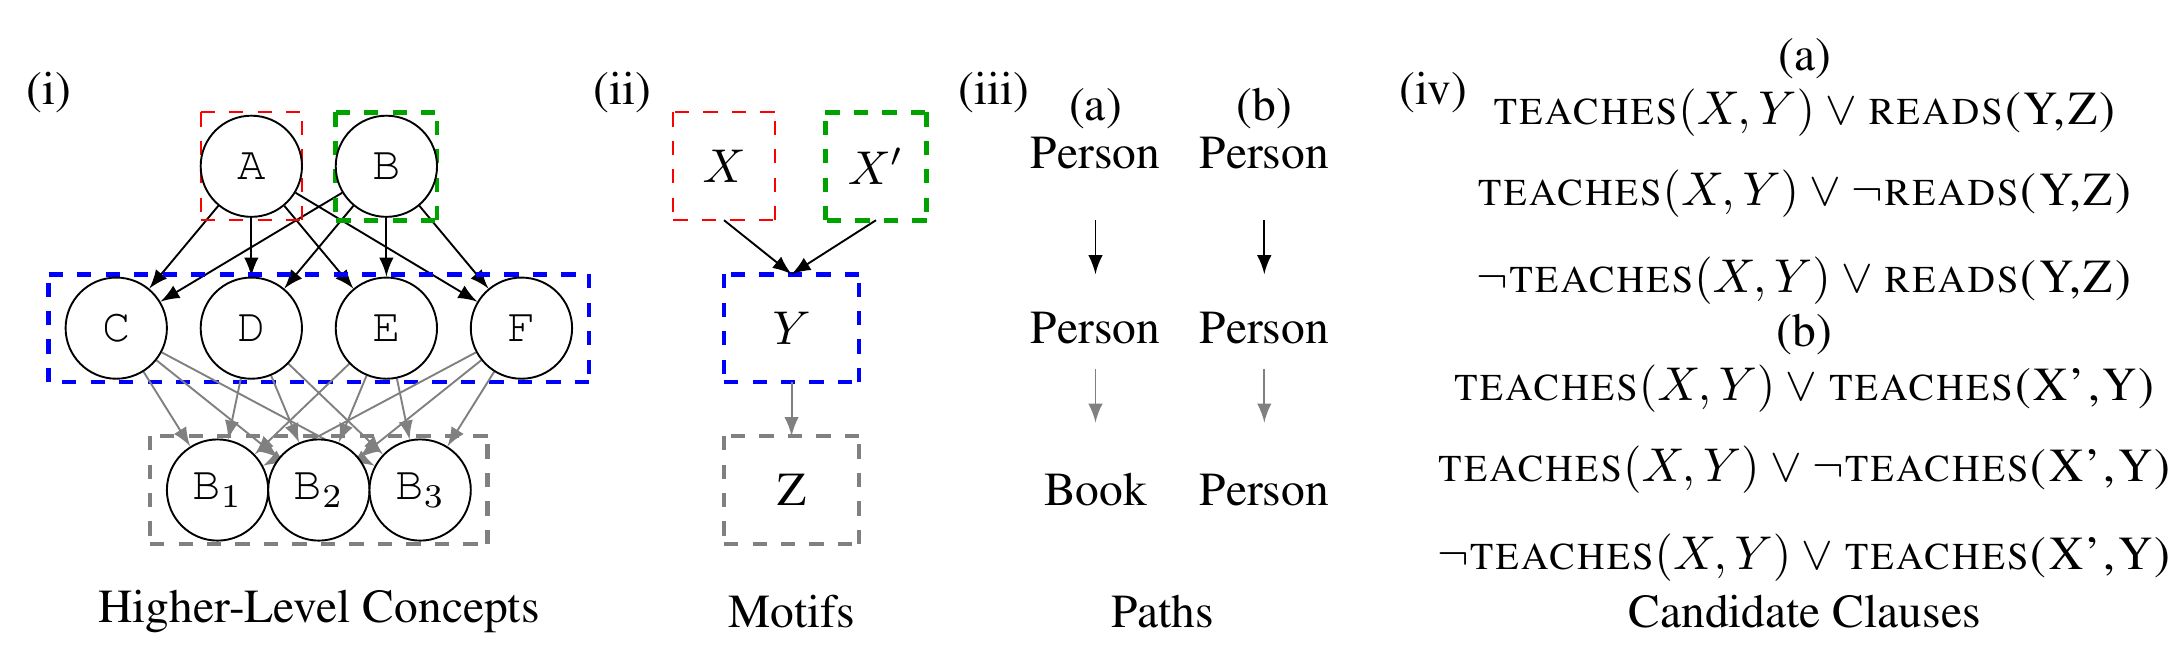
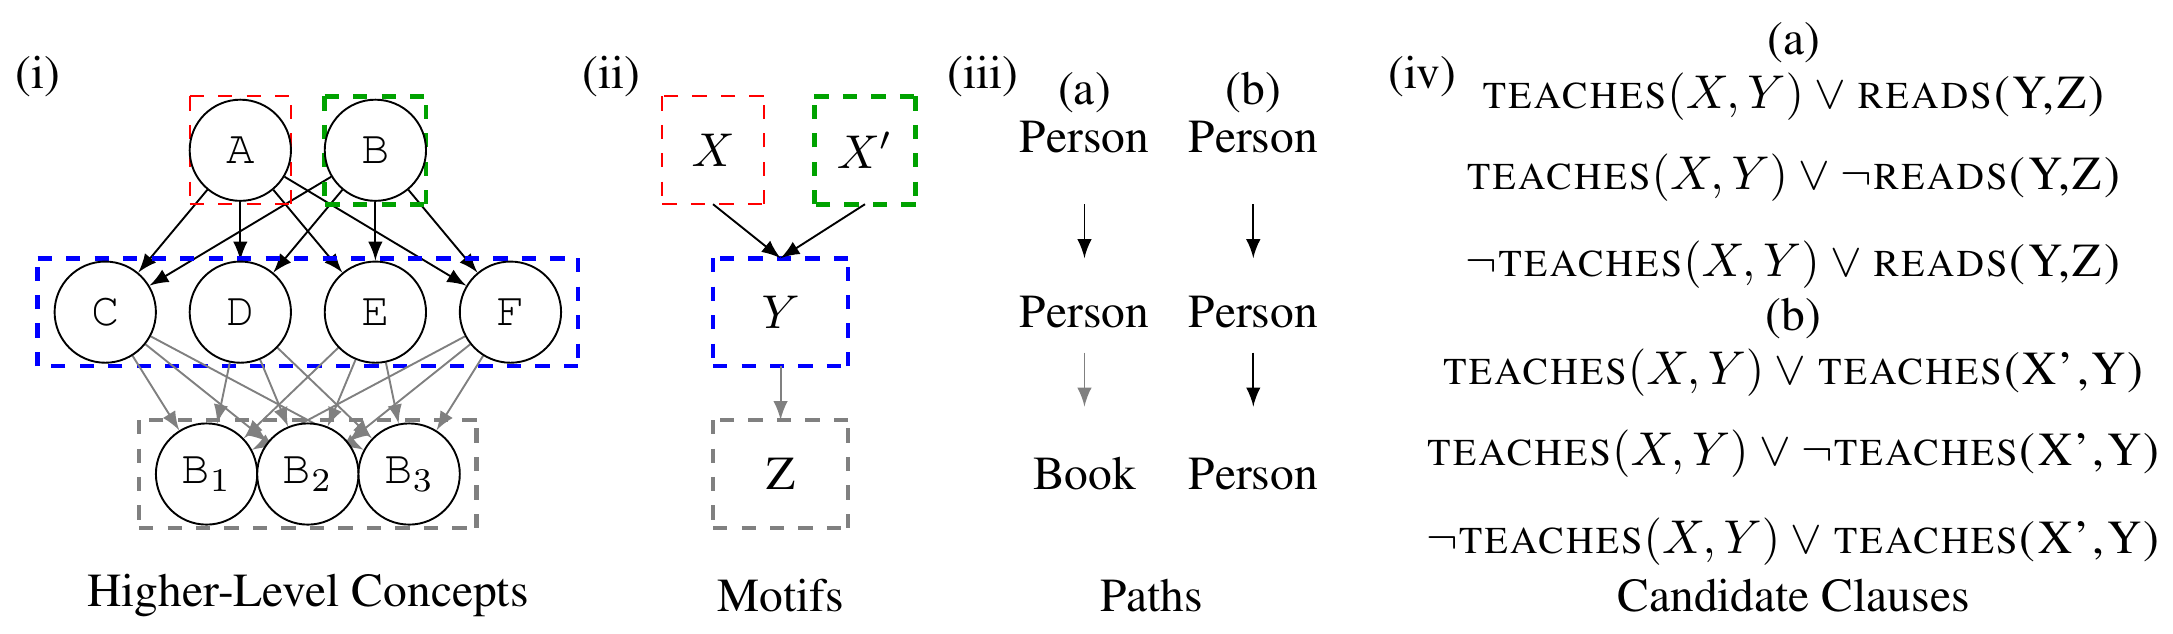
Added a figure for concept finding and updated the structure learning figure

diff --git a/README.md b/README.md
@@ -20,7 +20,9 @@ In this section, we briefly describe what PRISM can be used for and the underlyi
 
 **Structure learning** is a core problem in AI central to the fields of **neuro-symbolic AI** and **statistical relational learning**. It consists in automatically learning a logical theory from data. The basis for structure learning is mining repeating patterns in the data, known as **structural motifs**. Finding these patterns reduces the exponential search space and therefore guides the learning of formulas. Despite the importance of motif learning, it is still not well understood. We present the first principled approach for mining structural motifs in **lifted graphical models**, languages that blend first-order logic with probabilistic models, which uses a stochastic process to measure the similarity of entities in the data.
 
-**PRISM** takes the following steps to find structural motifs:
+**PRISM** takes the following steps, illustrated in the figure below to find structural motifs
+
+![alt text](ConceptFinding.png "Concept Finding Pipeline")
 
 #### 1. Transform data into a hypergraph
 
@@ -28,7 +30,7 @@ The input to PRISM is data in form of a relational database. A **relational data
 
 #### 2. Perform hierarchical clustering of the hypergraph
 
-We then pre-process the data through hierarchical clustering. This identifies groups of densely-connected nodes. The motivation behind considering only densely-connected nodes is that spuriously-connected nodes appear rarely in the path signatures and therefore only add noise to the path signature counts that we use at a later stage for clustering nodes into *abstract concepts*. Furthermore, this pre-processing also leads to a computational saving as we show in our paper.
+We then pre-process the data through hierarchical clustering. Illustrated in the figure above (Step (i)). This identifies groups of densely-connected nodes. The motivation behind considering only densely-connected nodes is that spuriously-connected nodes appear rarely in the path signatures and therefore only add noise to the path signature counts that we use at a later stage for clustering nodes into *abstract concepts*. Furthermore, this pre-processing also leads to a computational saving as we show in our paper.
 
 This hierarchical clustering algorithm is based on spectral clustering. 
 In overview, we begin by converting a hypergraph $\mathcal{H}=(V,E)$ into a weighted graph $\mathcal{G}$ by expanding cliques over each hyperedge. Next, $\mathcal{G}$ is recursively bipartitioned using the sweep set approximation algorithm for the Cheeger-cut *(Chang, Shao, and Zhang 2017)*. The result of the partitioning is a set of subgraphs $G:=$ { $\mathcal{G}_1, \mathcal{G}_2, ..., \mathcal{G}_k$ }. The partitioning terminates whenever either the second-smallest eigenvalue of the symmetric Laplacian matrix $\lambda_2$ exceeds a threshold value $\lambda_2^{max}$.
@@ -48,7 +50,7 @@ where ${P^\* = 1 + {e(e^{L}-1)}/({e-1}) \gg 1}$, $e$ is the number of unique edg
 
 #### 4. Cluster nodes into *abstract concepts*
 
-Finally, we cluster nodes in *abstract concepts*; collections of entities that have similar neighbourhoods in the hypergraph. Nodes are then partitioned into path-symmetric sets based on the similarity of their $L$-path signature counts. Each path-symmetric set then uniquely defines an abstract concept.
+Finally, we cluster nodes in *abstract concepts*; collections of entities that have similar neighbourhoods in the hypergraph. Illustrated in the figure above (Step (ii) and (iii)). Nodes are then partitioned into path-symmetric sets based on the similarity of their $L$-path signature counts. Each path-symmetric set then uniquely defines an abstract concept.
 
 In practice, we separate the path-symmetry clustering into two steps. Firstly, we cluster nodes based on their distance symmetry and then based on their path symmetry. The stage of clustering by distance only serves to speed up the subsequent path-symmetric clustering. This is a valid approach since any path-symmetry implies distance symmetry, and checking distance symmetry is a faster algorithm ( $\mathcal{O}(N)$ vs $\mathcal{O}(N \ln (N))$ ).
 
